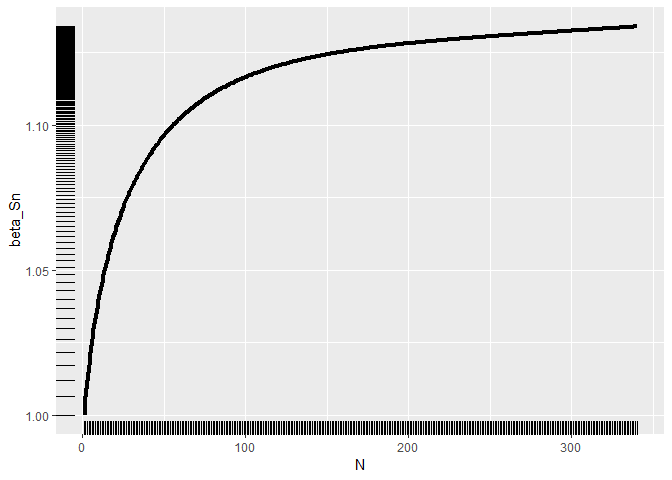
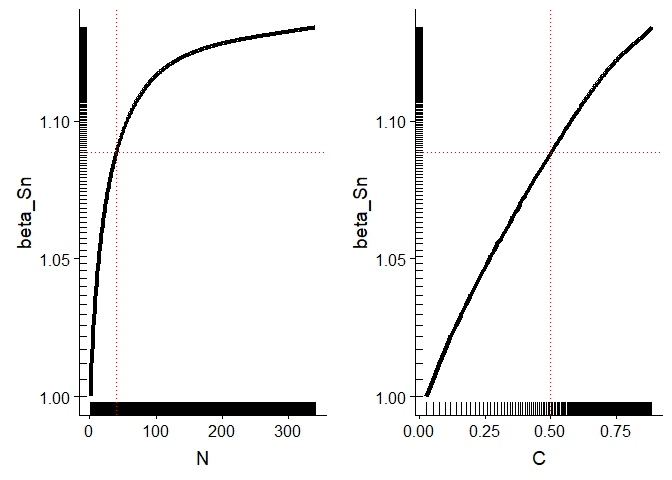
Update README
add red lines to figure

diff --git a/README.md b/README.md
@@ -21,7 +21,9 @@ it.
 ## Example: Beta-diversity of the BCI dataset from vegan
 
 Let’s look at the beta\_diversity of the BCI dataset that comes with the
-package vegan.
+package vegan. First we calculate Whittaker’s multiplicative
+beta-diverity and than we standardize it to a sample coverage of 50%
+using `beta_C`.
 
 ``` r
 library(betaC)
@@ -44,13 +46,13 @@ beta_C_BCI
 #> [1] 1.088571
 ```
 
-The samples have a beta-diversity of 2.48 but most of this differention
-is due to a sampling effect. If we standardize to the number if
-individuals that corresponds to 50 % coverage at the gamma scale we find
-that the partition of the non-random component in beta-diversity is only
-ca 1.09
+The samples have a beta-diversity of 2.48 but most of this sample
+differention is due to a sampling effect. If we standardize to the
+number of individuals that corresponds to 50 % coverage at the gamma
+scale we find that the partition of the non-random component in
+beta-diversity is only ca. 1.09
 
-To illustrate this let’s have a look at the rarefaction curves
+To illustrate this let’s have a look at the two-scale rarefaction curve.
 
 ``` r
 library(tidyverse)
@@ -72,10 +74,11 @@ structure. The observed beta-diversity is mostly caused by difference in
 sample size. Beta\_C of 50% is calculated at a sample size of 40
 individuals (dashed vertical line).
 
-We can also examine the entire scaling relationship of the nonrandom
-component in beta-diversity. To do that we calculate beta\_Sn for every
-N and the corresponding coverages at the gamma scale. This can be done
-using `beta_C_curve`.
+For this example we chose the 50% arbitrarily. We can also examine the
+entire scaling relationship of the nonrandom component in
+beta-diversity. To do that we calculate beta\_Sn for every N and the
+corresponding coverages at the gamma scale. This can be done using
+`beta_C_curve`.
 
 ``` r
 BCI_curve<-beta_C_curve(BCI)
@@ -95,20 +98,36 @@ head(BCI_curve)
 And here are the plots:
 
 ``` r
-N_plot<-BCI_curve %>% ggplot(aes(N, beta_Sn))+geom_line( size= 1.5 )+geom_rug()
-C_plot<-BCI_curve %>% ggplot(aes(C, beta_Sn))+geom_line( size= 1.5)+geom_rug()
-N_plot
+
+N_plot <-
+    BCI_curve %>% ggplot(aes(N, beta_Sn)) + geom_line(size = 1.5) + geom_rug() +
+    geom_hline(yintercept = beta_C_BCI,
+               col = "red",
+               linetype = "dotted") + geom_vline(
+                   xintercept = invChat(colSums(BCI), 0.5),
+                   col = "red",
+                   linetype = "dotted"
+               )
+C_plot <-
+    BCI_curve %>% ggplot(aes(C, beta_Sn)) + geom_line(size = 1.5) + geom_rug() +
+    geom_hline(yintercept = beta_C_BCI,
+               col = "red",
+               linetype = "dotted") + geom_vline(
+                   xintercept =  0.5,
+                   col = "red",
+                   linetype = "dotted"
+               )
+plot_grid(N_plot, C_plot, align = "v")
 ```
 
 <img src="man/figures/README-unnamed-chunk-4-1.png" width="150%" />
 
-``` r
-C_plot
-```
-
-<img src="man/figures/README-unnamed-chunk-4-2.png" width="150%" />
-
-Both graphs show the same data on the y axis.
+Note that both graphs show the same data on the y axis. The value
+corresponding to 50% that we calculated previously is indicated by the
+dotted red lines. The coverage/ sample size value used for the
+standarisation stronly influences the value of beta\_C. Therefore it
+should always be reported and compared with respect to the underlying
+coverage.
 
 ## Functions
 
